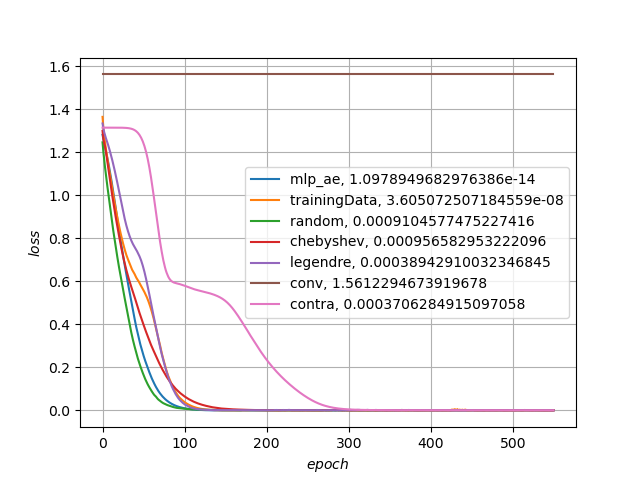
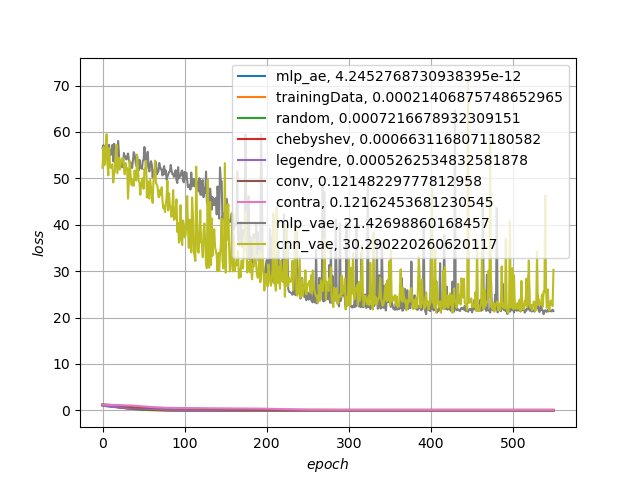
updated cycle experiments: better results

diff --git a/circle_experiments_previous/circle_exp_chethan.py b/circle_experiments_previous/circle_exp_chethan.py
@@ -15,8 +15,8 @@ from torchvision import datasets, transforms
 
 transform = transforms.ToTensor()
 
-from models_for_circle import ConvoAE, Autoencoder_linear, VAE_mlp_circle_new
-from loss_functions import contractive_loss_function, loss_fn_mlp_vae
+from models_for_circle import ConvoAE, Autoencoder_linear, VAE_mlp_circle_new, ConvVAE_circle
+from loss_functions import contractive_loss_function, loss_fn_mlp_vae, loss_fn_cnn_vae
 from torch.autograd import Variable
 
 pi = math.pi
@@ -44,7 +44,7 @@ arr_points = np.array(points)
 plt.scatter(arr_points[:,0], arr_points[:,1])
 plt.grid(True)
 plt.show()
-plt.savefig('/home/ramana44/autoencoder-regularisation-/circle_experiments_previous/imagesaves/orig_circle.png')
+#plt.savefig('/home/ramana44/autoencoder-regularisation-/circle_experiments_previous/imagesaves/orig_circle.png')
 plt.close()
 ##################################################################################################################
 transform_to_3D = np.random.rand(2, 3)
@@ -56,7 +56,7 @@ ax = fig.add_subplot(projection='3d')
 ax.scatter(circle_3D[:,0], circle_3D[:,1], circle_3D[:,2])
 
 plt.show()
-plt.savefig('/home/ramana44/autoencoder-regularisation-/circle_experiments_previous/imagesaves/circleIn3DSpace.png')
+#plt.savefig('/home/ramana44/autoencoder-regularisation-/circle_experiments_previous/imagesaves/circleIn3DSpace.png')
 plt.close()
 ##################################################################################################################
 import torch
@@ -137,10 +137,11 @@ model_conv = ConvoAE(latent_dim).to(device)
 
 model_contra = Autoencoder_linear(latent_dim).to(device)
 
-model_vae = BetaVAE(dim, no_filters, no_layers_conv,
-                  kernel_size, latent_dim=2, activation = Sin(), beta=0.01, use_mu=1.).to(device)
-#model_mlp_vae = MLPVAE(dim, hidden_size, 2, no_layers, beta=0.01).to(device)
-#
+#model_vae = BetaVAE(dim, no_filters, no_layers_conv, kernel_size, latent_dim=2, activation = Sin(), beta=0.01, use_mu=1.).to(device)
+
+model_cnn_vae = ConvVAE_circle(image_channels=1, h_dim=5*4, z_dim=latent_dim).to(device)
+
+
 model_mlp_vae = VAE_mlp_circle_new(image_size=15, h_dim=6, z_dim=latent_dim).to(device)
 #model_reg_tr = copy.deepcopy(model)
 #model_reg_ran = copy.deepcopy(model)
@@ -161,10 +162,8 @@ optimizer_mlp_vae = torch.optim.Adam(model_mlp_vae.parameters(), lr=1e-3)
 #optimizer_conv = torch.optim.Adam(model_conv.parameters(), lr=5e-3)
 #
 optimizer_conv = torch.optim.Adam(model_conv.parameters(), lr =0.002, weight_decay = 1e-5)
-
 optimizer_contra = torch.optim.Adam(model_contra.parameters(), lr =0.002, weight_decay = 1e-5)
-
-optimizer_vae = torch.optim.Adam(model_vae.parameters(), lr=5e-3)
+optimizer_cnn_vae = torch.optim.Adam(model_cnn_vae.parameters(), lr=1e-3) 
 
 mod_loss = []
 mod_loss_tr = []
@@ -197,19 +196,19 @@ from regularisers_without_vegas import computeC1Loss, sampleChebyshevNodes, samp
                     "conv", "vae", "mlp_vae"])'''
                     
 regNodesSamplings = (["mlp_ae", "trainingData", "random", "chebyshev", "legendre",
-                    "conv", "contra", "mlp_vae"])
+                    "conv", "contra", "mlp_vae", "cnn_vae"])
 
 '''models = ([model_reg_tr, model_reg_ran, model_reg_cheb, model_reg_leg,
         model_conv, model_vae, model_mlp_vae])'''
 
 models = ([model, model_reg_tr, model_reg_ran, model_reg_cheb, model_reg_leg,
-        model_conv, model_contra, model_mlp_vae])
+        model_conv, model_contra, model_mlp_vae, model_cnn_vae])
 
 '''optimizers = ([optimizer_tr, optimizer_ran, optimizer_cheb, optimizer_leg, 
             optimizer_conv, optimizer_contra,  optimizer_vae, optimizer_mlp_vae])'''
 
 optimizers = ([optimizer, optimizer_tr, optimizer_ran, optimizer_cheb, optimizer_leg, 
-            optimizer_conv, optimizer_contra, optimizer_mlp_vae])
+            optimizer_conv, optimizer_contra, optimizer_mlp_vae, optimizer_cnn_vae])
 
 szSample = 10
 latent_dim = 2
@@ -224,7 +223,7 @@ for ind, model_reg in enumerate(models):
     #print(mod_loss_reg)
     for epoch in range(no_epochs):
 
-        if (regNodesSampling != "conv") and (regNodesSampling != "vae") and (regNodesSampling != "mlp_vae") and (regNodesSampling != "contra") and (regNodesSampling != "mlp_ae") and (regNodesSampling != "mlp_vae"):
+        if (regNodesSampling != "conv") and (regNodesSampling != "vae") and (regNodesSampling != "mlp_vae") and (regNodesSampling != "contra") and (regNodesSampling != "mlp_ae") and (regNodesSampling != "mlp_vae") and (regNodesSampling != "cnn_vae"):
                         
             model_output = model_reg(data_tr.to(device))
             loss = torch.nn.MSELoss()(model_output, data_tr.to(device))
@@ -278,11 +277,18 @@ for ind, model_reg in enumerate(models):
             #print('recon_images.shape', recon_images.shape)
             loss, bce, kld = loss_fn_mlp_vae(recon_images.to(device), images.to(device), mu.to(device), logvar.to(device))
             
-            print("mlp vae loss", loss)
             mod_loss_reg.append(float(loss.item()))
 
+        if regNodesSampling == "cnn_vae":
 
-        if regNodesSampling == "vae":
+            recon_images, mu, logvar = model_reg(data_tr.unsqueeze(1).float().to(device))
+            #print('recon_images.shape', recon_images.shape)
+            #print('data_tr.shape', data_tr.shape)
+            loss, bce, kld = loss_fn_cnn_vae(recon_images.to(device), data_tr.unsqueeze(1).to(device), mu.to(device), logvar.to(device))
+            mod_loss_reg.append(float(loss.item()))
+            print("cnn vae loss", loss)
+
+        '''if regNodesSampling == "vae":
             x_reco, mu, logvar = model_reg(data_tr.to(device))
             recon_loss = torch.nn.MSELoss()(data_tr.to(device), x_reco.squeeze(1))
             total_kld, dim_wise_kld, mean_kld = kl_divergence(mu, logvar)
@@ -293,7 +299,7 @@ for ind, model_reg in enumerate(models):
             recon_loss = torch.nn.MSELoss()(data_tr.to(device), x_reco)
             total_kld, dim_wise_kld, mean_kld = kl_divergence(mu, logvar)
             loss = recon_loss + model_vae.beta*total_kld
-            mod_loss_reg.append(float(recon_loss.item()))
+            mod_loss_reg.append(float(recon_loss.item()))'''
         optimizer.zero_grad()
         loss.backward()
         optimizer.step()
@@ -318,14 +324,14 @@ plt.scatter(points_val[:,0], points_val[:,1], color="orange")
 plt.scatter(points_tr[:,0], points_tr[:,1], color="blue")
 
 plt.scatter(arr_points[:,0], arr_points[:,1], color='grey', alpha=0.05)
-plt.grid(True)
+plt.grid(False)
 #plt.title("Baseline: training data")
 plt.show()
 
 
 #labels = ["Reg on training data", "Reg on random points", "Reg on chebyshev nodes", "Reg on legendre nodes","conv", "vae","mlp_vae"]
 
-labels = ["mlp_ae", "Reg on training data", "Reg on random points", "Reg on chebyshev nodes", "Reg on legendre nodes","conv", "contra", "mlp_vae"]
+labels = ["mlp_ae", "Reg on training data", "Reg on random points", "Reg on chebyshev nodes", "Reg on legendre nodes","conv", "contra", "mlp_vae", "cnn_vae"]
 
 for ind, model_reg in enumerate(models):
     if ind < 5:
@@ -334,10 +340,10 @@ for ind, model_reg in enumerate(models):
         plt.scatter(points_val[:,0], points_val[:,1], label='validation samples', color="orange")
         plt.scatter(points_tr[:,0], points_tr[:,1], label='training samples', color="blue")
         plt.scatter(arr_points[:,0], arr_points[:,1], color='grey', alpha=0.05)
-        plt.grid(True)
-        plt.title(labels[ind])
+        plt.grid(False)
+        #plt.title(labels[ind])
         plt.show()
-        plt.savefig('/home/ramana44/autoencoder-regularisation-/circle_experiments_previous/imagesaves/s'+str(ind)+'.png')
+        plt.savefig('/home/ramana44/autoencoder-regularisation-/circle_experiments_previous/imagesaves/'+labels[ind]+'.png')
         plt.close()
 
     elif (labels[ind] == "conv" or labels[ind] == "contra" ):
@@ -350,10 +356,10 @@ for ind, model_reg in enumerate(models):
         plt.scatter(points_val[:,0], points_val[:,1], label='validation samples', color="orange")
         plt.scatter(points_tr[:,0], points_tr[:,1], label='training samples', color="blue")
         plt.scatter(arr_points[:,0], arr_points[:,1], color='grey', alpha=0.05)
-        plt.grid(True)
-        plt.title(labels[ind])
+        plt.grid(False)
+        #plt.title(labels[ind])
         plt.show()
-        plt.savefig('/home/ramana44/autoencoder-regularisation-/circle_experiments_previous/imagesaves/s'+str(ind)+'.png')
+        plt.savefig('/home/ramana44/autoencoder-regularisation-/circle_experiments_previous/imagesaves/'+labels[ind]+'.png')
         plt.close()
     elif labels[ind] == "mlp_vae":
         #points_tr, _, _ = (model_reg.encode(data_tr.to(device), False))
@@ -370,10 +376,30 @@ for ind, model_reg in enumerate(models):
         plt.scatter(points_val[:,0], points_val[:,1], label='validation samples', color="orange")
         plt.scatter(points_tr[:,0], points_tr[:,1], label='training samples', color="blue")
         plt.scatter(arr_points[:,0], arr_points[:,1], color='grey', alpha=0.05)
-        plt.grid(True)
-        plt.title(labels[ind])
+        plt.grid(False)
+        #plt.title(labels[ind])
         plt.show()
-        plt.savefig('/home/ramana44/autoencoder-regularisation-/circle_experiments_previous/imagesaves/s'+str(ind)+'.png')
+        plt.savefig('/home/ramana44/autoencoder-regularisation-/circle_experiments_previous/imagesaves/'+labels[ind]+'.png')
+        plt.close()
+    elif labels[ind] == "cnn_vae":
+        #points_tr, _, _ = (model_reg.encode(data_tr.to(device), False))
+        points_tr = model_reg.fc1(model_reg.encoder(data_tr.unsqueeze(1).float().to(device)))
+        points_tr = points_tr.detach().cpu().numpy()
+
+        #points_val,_ ,_ = (model_reg.encode(data_val.to(device), False))
+        points_val = model_reg.fc1(model_reg.encoder(data_val.unsqueeze(1).float().to(device)))
+        points_val = points_val.detach().cpu().numpy()
+
+        points_tr = points_tr.reshape(-1,2)
+        points_val = points_val.reshape(-1,2)
+
+        plt.scatter(points_val[:,0], points_val[:,1], label='validation samples', color="orange")
+        plt.scatter(points_tr[:,0], points_tr[:,1], label='training samples', color="blue")
+        plt.scatter(arr_points[:,0], arr_points[:,1], color='grey', alpha=0.05)
+        plt.grid(False)
+        #plt.title(labels[ind])
+        plt.show()
+        plt.savefig('/home/ramana44/autoencoder-regularisation-/circle_experiments_previous/imagesaves/'+labels[ind]+'.png')
         plt.close()
     del model_reg
 ##################################################################################################################

diff --git a/circle_experiments_previous/models_for_circle.py b/circle_experiments_previous/models_for_circle.py
@@ -153,3 +153,69 @@ class VAE_mlp_circle_new(nn.Module):
         z = self.fc3(z)
         #print('z.shape', z.shape)
         return self.decoder(z), mu, logvar
+
+
+class ConvVAE_circle(nn.Module):
+    def __init__(self, image_channels=1, h_dim=5*4, z_dim=2):
+        super(ConvVAE_circle, self).__init__()
+        self.encoder = nn.Sequential(
+            nn.Conv1d(1, 5, 3, stride=2, padding=1),  #N, 16, 16, 16
+            Sin(),
+            nn.Conv1d(5, 5, 3, stride=2, padding=1),   #N, 32, 8, 8
+            Sin(),
+            nn.Conv1d(5, 5, 3, stride=1, padding=1),   #N, 32, 8, 8
+            Sin(),            
+            nn.Flatten(1,-1),
+            #nn.Linear(8*2*2, z_dim)
+
+        )
+        
+        self.fc1 = nn.Sequential(
+            nn.Linear(h_dim, z_dim),
+            Sin()
+        )
+        self.fc2 = nn.Sequential(
+            nn.Linear(h_dim, z_dim),
+            Sin()
+        )
+        self.fc3 = nn.Sequential(
+            nn.Linear(z_dim, h_dim),
+            Sin()
+            )
+        
+        self.decoder = nn.Sequential(
+            
+            #nn.Linear(z_dim, 8*2*2),
+            nn.Unflatten(1, (5, 4)),
+            nn.ConvTranspose1d(5, 5, 3, stride=2, padding=1, output_padding=1),  #N, 32, 8, 8
+            Sin(),
+            nn.ConvTranspose1d(5, 5, 3, stride=1, padding=1, output_padding=0),  #N, 32, 8, 8
+            Sin(),
+            nn.ConvTranspose1d(5, 1, 3, stride=2, padding=1, output_padding=0),  #N, 32, 8, 8
+            #nn.Sigmoid()
+            Sin()
+        )
+        
+    def reparameterize(self, mu, logvar):
+        std = logvar.mul(0.5).exp_()
+        # return torch.normal(mu, std)
+        esp = torch.randn(*mu.size()).to(device)
+        z = mu + std * esp
+        return z.to(device)
+    
+    def bottleneck(self, h):
+        mu, logvar = self.fc1(h), self.fc2(h)
+        z = self.reparameterize(mu.to(device), logvar.to(device))
+        return z, mu, logvar
+        
+    def representation(self, x):
+        return self.bottleneck(self.encoder(x))[0]
+
+    def forward(self, x):
+        h = self.encoder(x)
+        z, mu, logvar = self.bottleneck(h.to(device))
+        z = self.fc3(z)
+        #print('z.shape', z.shape)
+        return self.decoder(z), mu, logvar
+
+        

diff --git a/circle_experiments_previous/loss_functions.py b/circle_experiments_previous/loss_functions.py
@@ -46,7 +46,25 @@ def contractive_loss_function(W, x, recons_x, h, lam):
 
 def loss_fn_mlp_vae(recon_x, x, mu, logvar):
     #BCE = F.binary_cross_entropy(recon_x.float(), x.float(), size_average=False)
-    BCE = F.mse_loss(recon_x, x, size_average=False)
+    #BCE = F.mse_loss(recon_x, x, size_average=False)
+    BCE = F.mse_loss(recon_x, x, reduction='sum')
+
+
+    #BCE = torch.nn.MSELoss()(x, recon_x)
+
+    # see Appendix B from VAE paper:
+    # Kingma and Welling. Auto-Encoding Variational Bayes. ICLR, 2014
+    # 0.5 * sum(1 + log(sigma^2) - mu^2 - sigma^2)
+    KLD = -0.5 * torch.mean(1 + logvar - mu.pow(2) - logvar.exp())
+
+    return BCE + KLD, BCE, KLD
+
+
+def loss_fn_cnn_vae(recon_x, x, mu, logvar):
+    #BCE = F.binary_cross_entropy(recon_x.float(), x.float(), size_average=False)
+    #BCE = F.mse_loss(recon_x, x, size_average=False)
+    BCE = F.mse_loss(recon_x, x, reduction='sum')
+
     #BCE = torch.nn.MSELoss()(x, recon_x)
 
     # see Appendix B from VAE paper:
